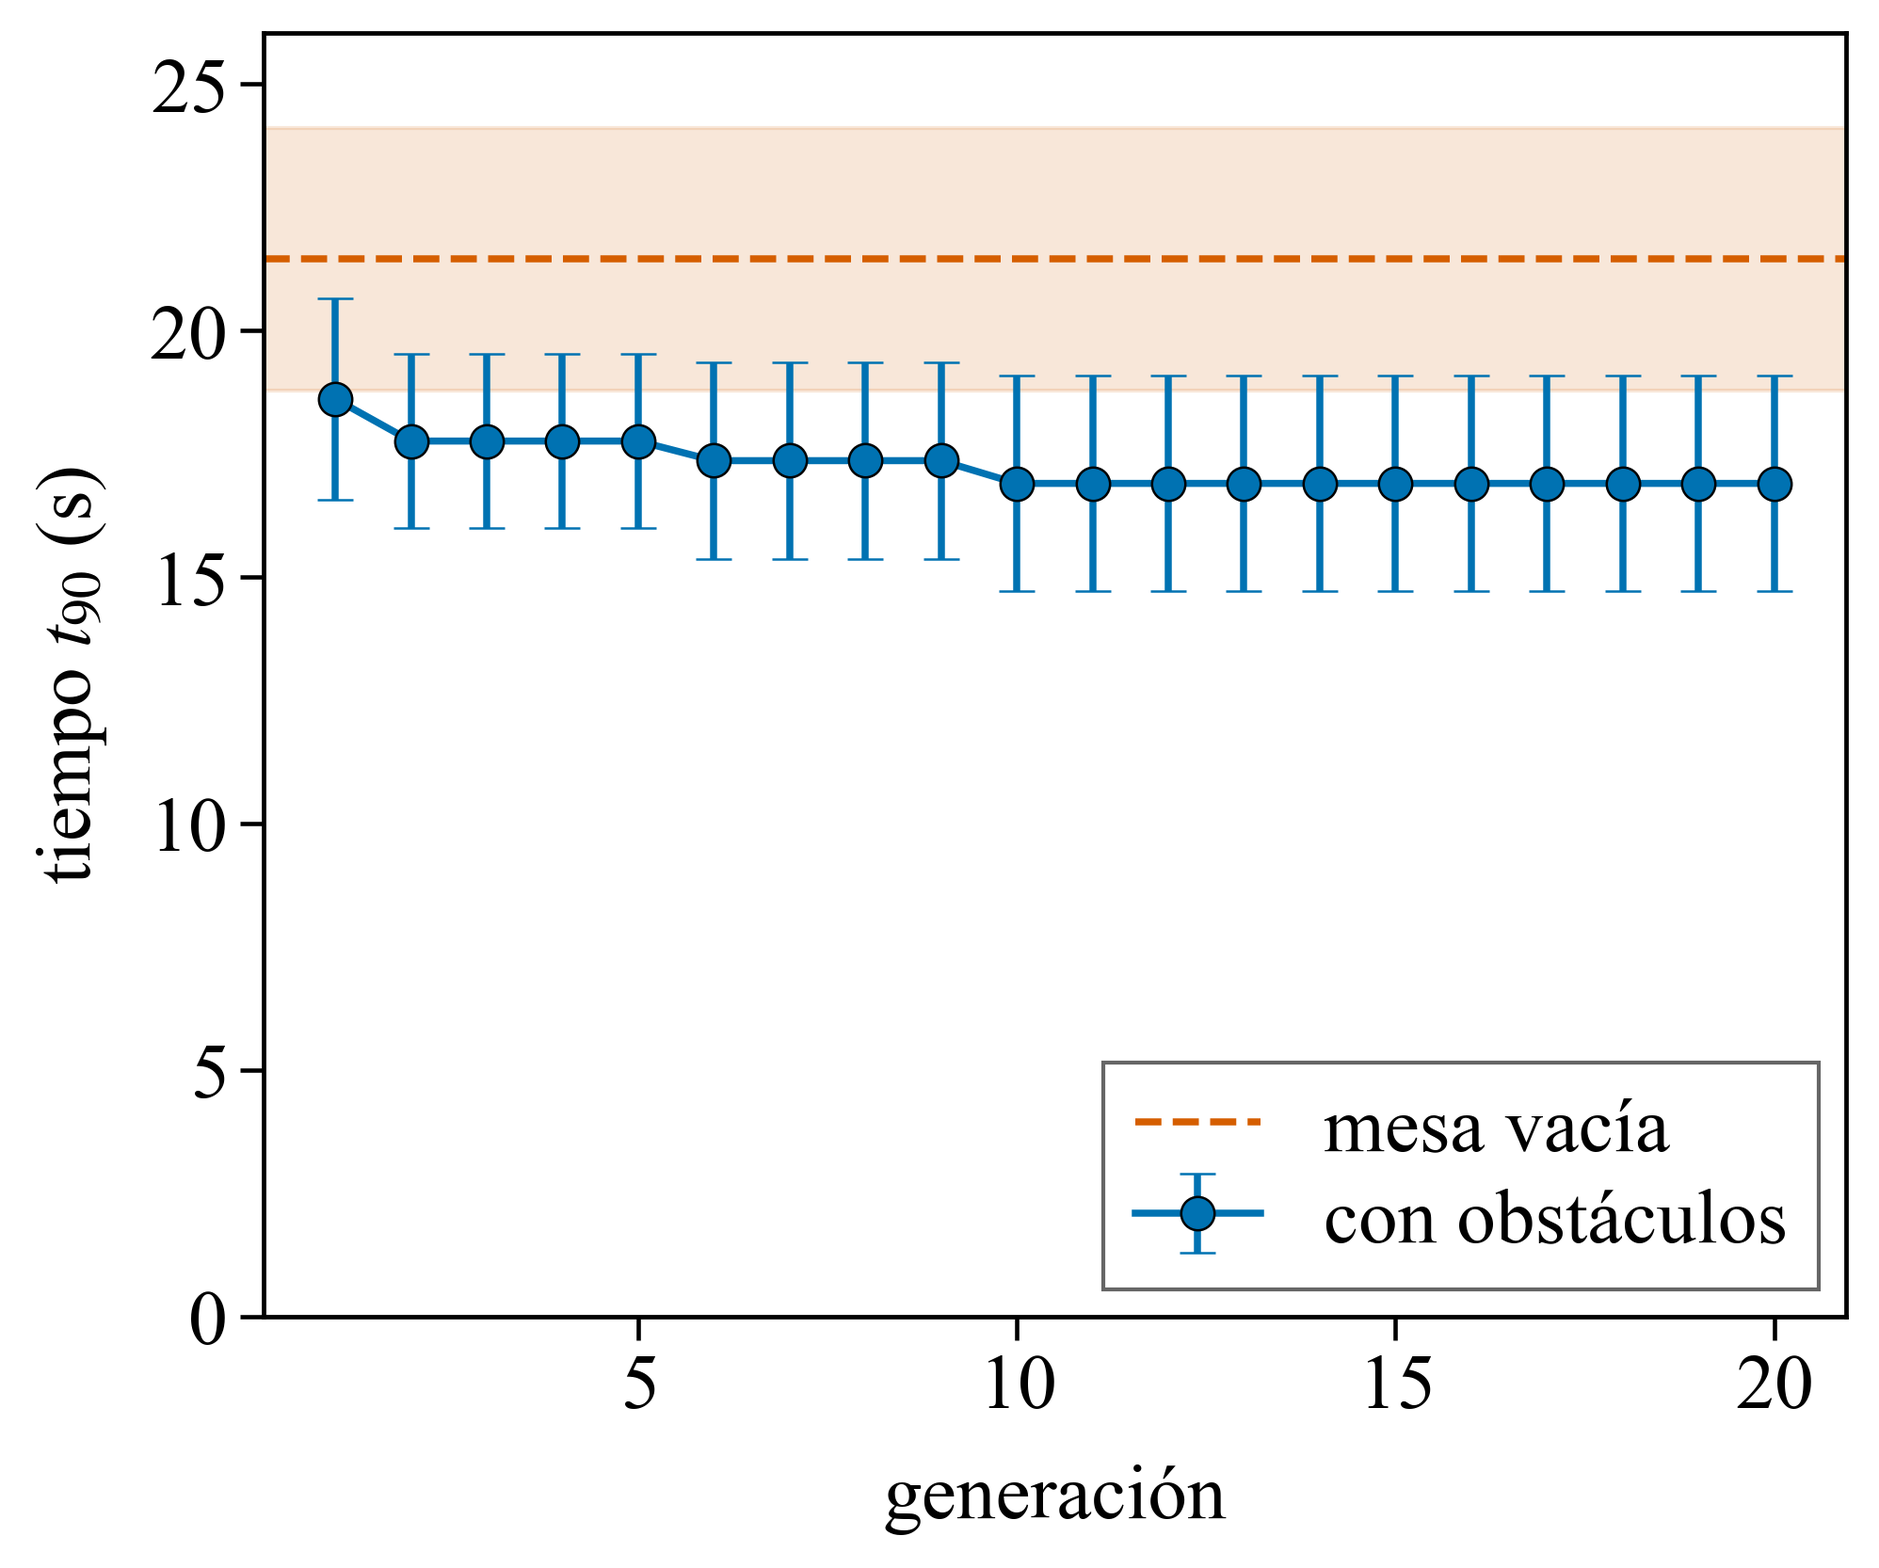
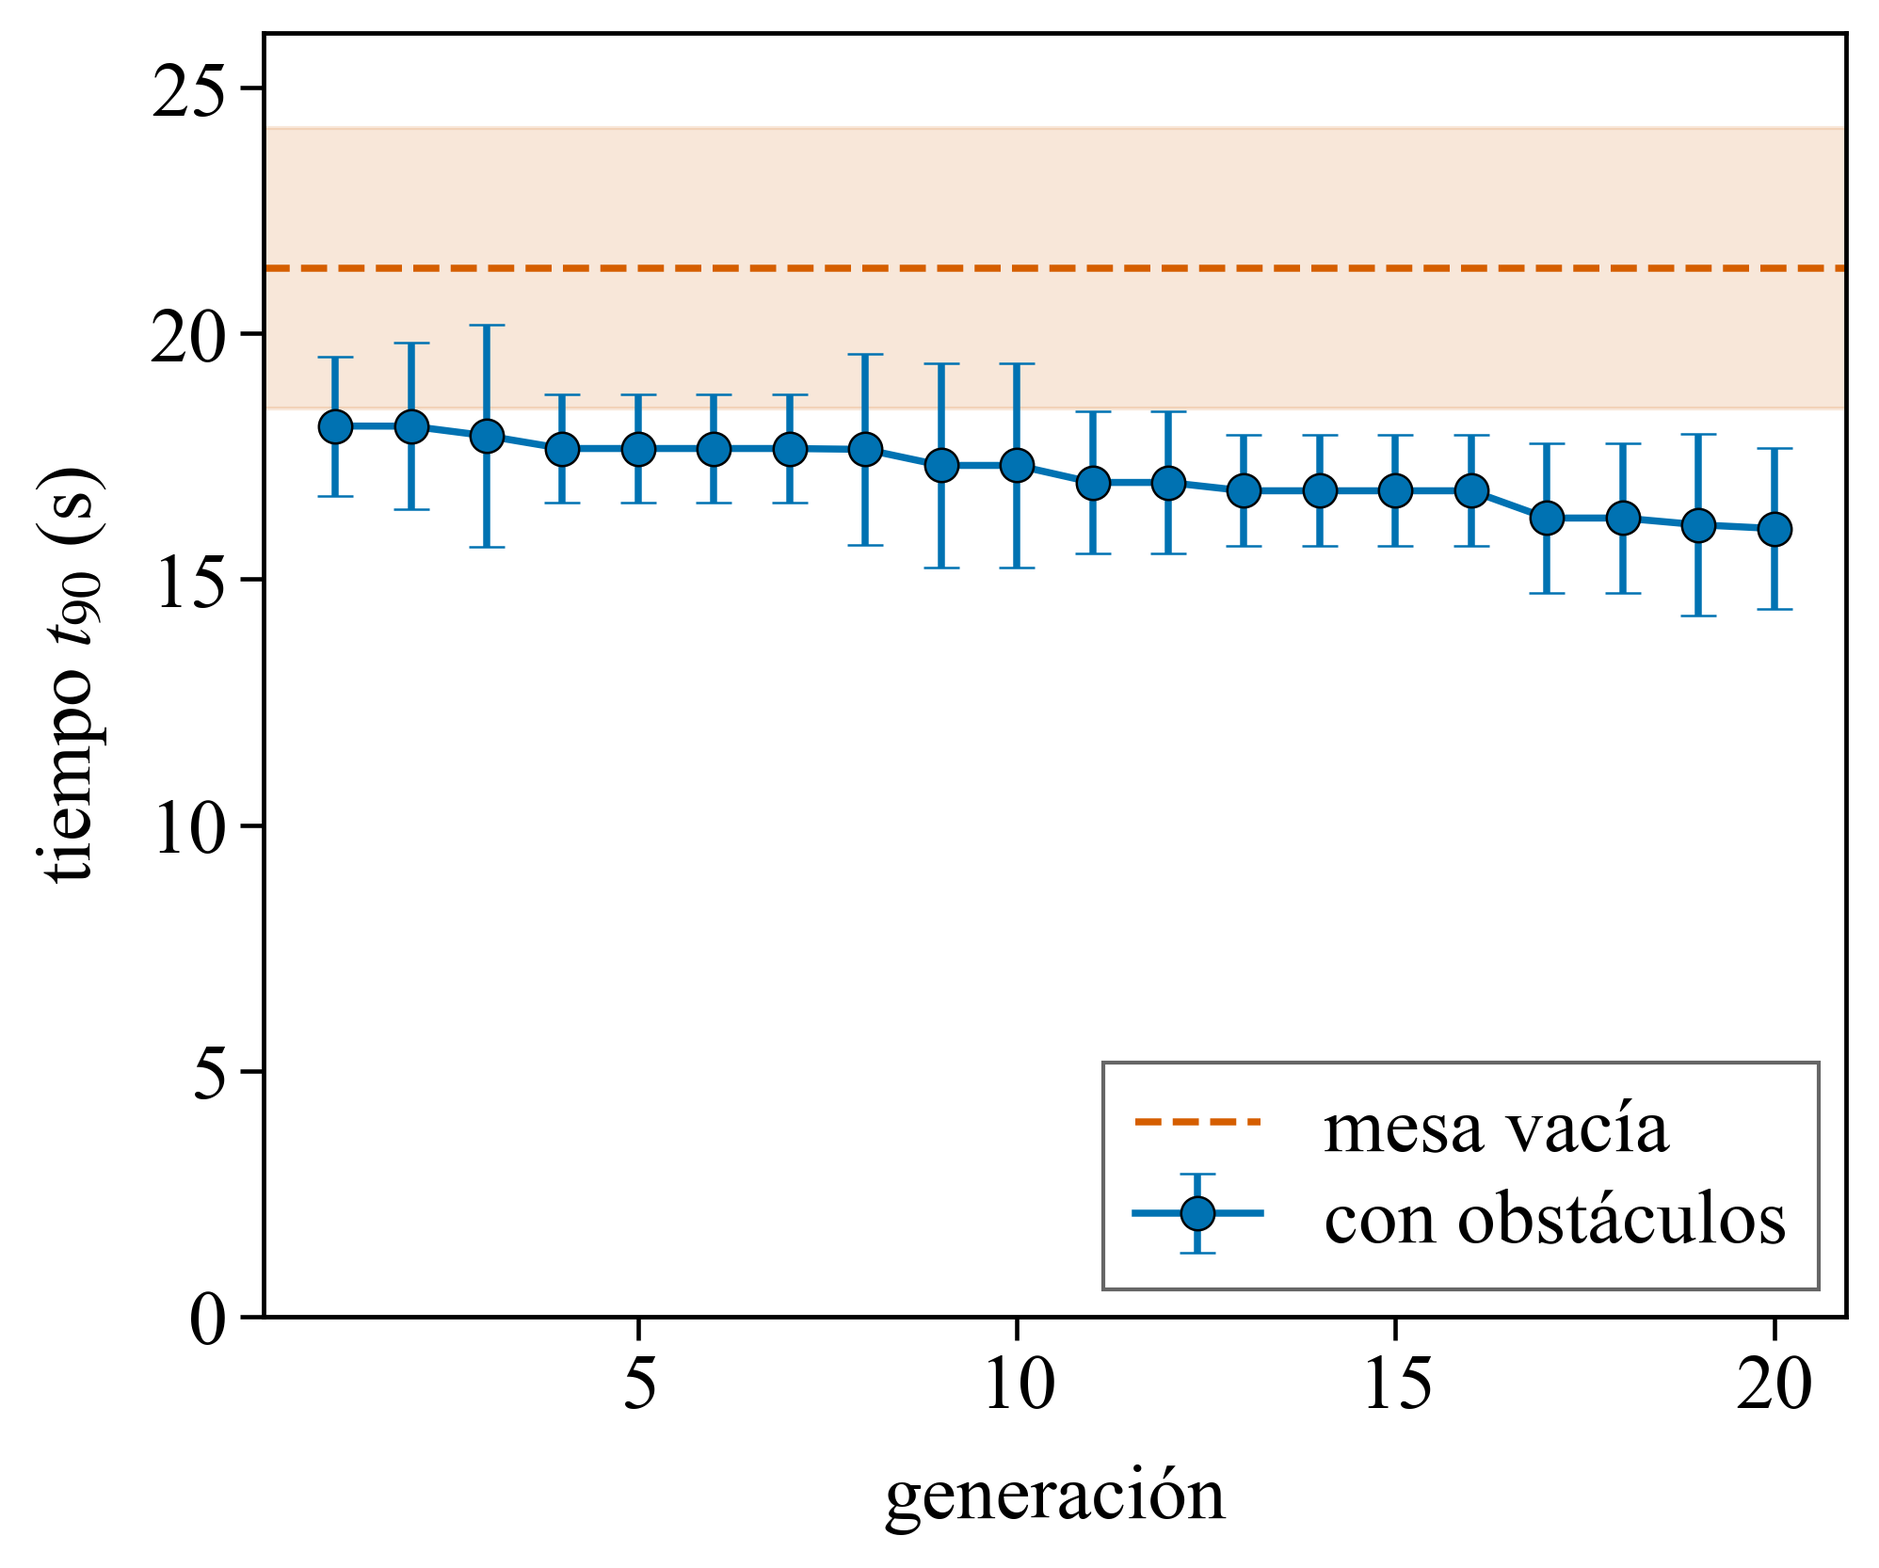
Updated best config

diff --git a/python/ga.py b/python/ga.py
@@ -8,6 +8,8 @@ fijos del enunciado 1.2 / 1.4; el CLI solo mueve el genético.
 
 La población inicial no es uniforme en la mesa: incluye embudos y rieles que
 apuntan a los arcos. Mutar y cruzar siguen siendo libres (sin simetría).
+Si el mejor no mejora durante 5 generaciones, corta y sigue con el pulido
+y la confirmación.
 """
 
 from __future__ import annotations
@@ -44,6 +46,8 @@ RADIUS_SIGMA = 0.02
 CACHE_DECIMALS = 4
 ELITE = 2
 TOURNAMENT_K = 3
+# En el 1.2 las mejoras quedaron a lo sumo 4 generaciones aparte; después la meseta duró 10.
+STALL_GENERATIONS = 5
 PLACE_FAIL = "no se pudo ubicar"
 ENGINE_INVALID = (PLACE_FAIL, "overlaps", "Rk < r", "not inside table")
 MID_Y = 0.5 * W
@@ -672,7 +676,11 @@ def run_search(args: argparse.Namespace) -> None:
     print(f"población inicial: {len(population)} configs", flush=True)
 
     scored: list[tuple[Config, dict]] = []
+    best_fitness: float | None = None
+    stall = 0
+    last_gen = 0
     for gen in range(args.gens):
+        last_gen = gen
         if gen == 0:
             current = population
         else:
@@ -696,12 +704,23 @@ def run_search(args: argparse.Namespace) -> None:
             f"K={len(scored[0][0])}  <t90>={_fmt(scored[0][1]['t90_mean'])}",
             flush=True,
         )
+        if best_fitness is None or best_fit + 1e-12 < best_fitness:
+            best_fitness = best_fit
+            stall = 0
+        else:
+            stall += 1
+            if stall >= STALL_GENERATIONS:
+                print(
+                    f"sin mejora en {STALL_GENERATIONS} generaciones; corto en la gen {gen + 1}",
+                    flush=True,
+                )
+                break
 
     finalists = [config for config, _row in scored[:6]]
     polished, polish_row = polish(
         scored[0][0], exe, search_seeds, args.jobs, cache, rng, args.k_max,
     )
-    _append_history(history, args.gens, polished, polish_row)
+    _append_history(history, last_gen + 1, polished, polish_row)
     candidates = unique_configs([*finalists, polished])
     print(f"confirmando {len(candidates)} candidatas + mesa vacía...", flush=True)
     confirm_rows = evaluate_batch(candidates, exe, confirm_seeds, args.jobs, cache)
@@ -724,6 +743,7 @@ def run_search(args: argparse.Namespace) -> None:
         f"tmax {TMAX}\n"
         f"pop {args.pop}\n"
         f"gens {args.gens}\n"
+        f"gens_ran {last_gen + 1}\n"
         f"reps {args.reps}\n"
         f"jobs {args.jobs}\n"
         f"k_max {args.k_max}\n"

diff --git a/docs/results/1.2/1.2_configuracion.md b/docs/results/1.2/1.2_configuracion.md
@@ -12,14 +12,15 @@ menos 5 realizaciones, y comparar contra la mesa vacía.
 ## Cómo se midió
 
 ```
-python python/ga.py --outdir data/ga/final --pop 32 --gens 20 --reps 12 --jobs 4 --seed 301 --seed-config configs/ga_best.txt --seed-config data/ga/run1/best.txt
-python python/plotters/plot_t90.py --input docs/results/1.2/t90_generacion.txt --output docs/results/1.2/t90_generacion.png --xlabel "generación" --empty 21.4462 2.66045
+python python/ga.py --outdir data/ga/full --pop 32 --gens 20 --reps 12 --jobs 8 --seed 501 --seed-config configs/ga_best.txt --exe build/EventDrivenSim.exe
+python python/run.py --exe build/EventDrivenSim.exe --outdir data/runs/1.2/empty_search --reps 12 --seed 501 --k 0 --tmax 100 --jobs 4 --preview none
+python python/plotters/plot_t90.py --input docs/results/1.2/t90_generacion.txt --output docs/results/1.2/t90_generacion.png --xlabel "generación" --empty 21.3247 2.8559
 ```
 
 - **Parámetros fijos:** N = 100, v0 = 1 m/s, r = 0.0175 m, m = 0.025 kg, L = 1.20 m, W = 0.68 m, d = 0.20 m, tmax = 100 s.
-- **Individuo:** lista de discos (xk, yk, Rk). Población 32, 20 generaciones. La población inicial incluye embudos, rieles, un obstáculo grande sobre el eje longitudinal y las configuraciones de dos corridas anteriores.
-- **Búsqueda:** 12 realizaciones por individuo, semillas 301 a 312, las mismas para todos.
-- **Confirmación:** semillas 401 a 412, que no entraron en la búsqueda. Ese es el ⟨t90⟩ que se reporta.
+- **Individuo:** lista de discos (xk, yk, Rk). Población 32, 20 generaciones. La población inicial incluye embudos, rieles, un obstáculo grande sobre el eje longitudinal y la configuración de la corrida anterior.
+- **Búsqueda:** 12 realizaciones por individuo, semillas 501 a 512, las mismas para todos. Si el mejor no mejora durante 5 generaciones la búsqueda corta; en esta corrida siguió hasta la 20.
+- **Confirmación:** semillas 601 a 612, que no entraron en la búsqueda. Ese es el ⟨t90⟩ que se reporta.
 - **Barras de error:** desvío estándar muestral de las realizaciones, igual que en el 1.1.
 
 ## Datos
@@ -28,43 +29,41 @@ Configuración elegida, `configs/ga_best.txt`. Cada fila es un obstáculo: xk, y
 
 | obstáculo | xk (m) | yk (m) | Rk (m) |
 |---|---|---|---|
-| 1 | 0.5099 | 0.0724 | 0.0266 |
-| 2 | 0.5928 | 0.3862 | 0.2193 |
-| 3 | 0.6529 | 0.1176 | 0.0511 |
+| 1 | 0.5900 | 0.3400 | 0.3400 |
 
-Los tres están enteros en la mesa, no se solapan y tienen Rk ≥ r. En las 12 semillas de confirmación el generador ubicó las 100 partículas.
+El disco está entero en la mesa: el centro queda sobre el eje longitudinal y el radio es la mitad del ancho, así que toca las dos paredes largas. Rk ≥ r. Con un solo obstáculo no hay solapes. En las 12 semillas de confirmación el generador ubicó las 100 partículas.
 
 ⟨t90⟩ sobre esas 12 semillas:
 
 | configuración | ⟨t90⟩ (s) | desvío (s) | llegaron a Fu = 0.9 |
 |---|---|---|---|
-| elegida | 18.28 | 1.74 | 12 / 12 |
-| mesa vacía | 21.11 | 2.45 | 12 / 12 |
+| elegida | 15.61 | 2.47 | 12 / 12 |
+| mesa vacía | 23.76 | 3.22 | 12 / 12 |
 
-Mejor individuo de cada generación de la búsqueda (semillas 301 a 312). La mesa vacía, con esas mismas semillas, da 21.45 ± 2.66 s y también llega a Fu = 0.9 en las 12.
+Mejor individuo de cada generación de la búsqueda (semillas 501 a 512). La mesa vacía, con esas mismas semillas, da 21.32 ± 2.86 s y también llega a Fu = 0.9 en las 12.
 
 | generación | K | ⟨t90⟩ (s) | desvío (s) |
 |---|---|---|---|
-| 1  | 1 | 18.61 | 2.04 |
-| 2  | 2 | 17.76 | 1.77 |
-| 3  | 2 | 17.76 | 1.77 |
-| 4  | 2 | 17.76 | 1.77 |
-| 5  | 2 | 17.76 | 1.77 |
-| 6  | 2 | 17.36 | 2.00 |
-| 7  | 2 | 17.36 | 2.00 |
-| 8  | 2 | 17.36 | 2.00 |
-| 9  | 2 | 17.36 | 2.00 |
-| 10 | 3 | 16.90 | 2.18 |
-| 11 | 3 | 16.90 | 2.18 |
-| 12 | 3 | 16.90 | 2.18 |
-| 13 | 3 | 16.90 | 2.18 |
-| 14 | 3 | 16.90 | 2.18 |
-| 15 | 3 | 16.90 | 2.18 |
-| 16 | 3 | 16.90 | 2.18 |
-| 17 | 3 | 16.90 | 2.18 |
-| 18 | 3 | 16.90 | 2.18 |
-| 19 | 3 | 16.90 | 2.18 |
-| 20 | 3 | 16.90 | 2.18 |
+| 1  | 1 | 18.12 | 1.42 |
+| 2  | 1 | 18.11 | 1.69 |
+| 3  | 2 | 17.92 | 2.26 |
+| 4  | 2 | 17.66 | 1.09 |
+| 5  | 2 | 17.66 | 1.09 |
+| 6  | 2 | 17.66 | 1.09 |
+| 7  | 2 | 17.66 | 1.09 |
+| 8  | 2 | 17.64 | 1.94 |
+| 9  | 1 | 17.32 | 2.08 |
+| 10 | 1 | 17.32 | 2.08 |
+| 11 | 3 | 16.97 | 1.44 |
+| 12 | 3 | 16.97 | 1.44 |
+| 13 | 3 | 16.80 | 1.13 |
+| 14 | 3 | 16.80 | 1.13 |
+| 15 | 3 | 16.80 | 1.13 |
+| 16 | 3 | 16.80 | 1.13 |
+| 17 | 1 | 16.25 | 1.52 |
+| 18 | 1 | 16.25 | 1.52 |
+| 19 | 1 | 16.11 | 1.85 |
+| 20 | 1 | 16.03 | 1.63 |
 
 ## Figuras
 
@@ -72,12 +71,12 @@ Mejor individuo de cada generación de la búsqueda (semillas 301 a 312). La mes
 
 ![⟨t90⟩ de la búsqueda](t90_generacion.png)
 
-- El mejor ⟨t90⟩ baja de 18.61 s en la generación 1 a 16.90 s en la generación 10, y no cambia hasta la 20.
-- La línea naranja es la mesa vacía en las semillas de la búsqueda (21.45 s). La banda y las barras son el desvío de las 12 realizaciones, no el error de la media. Por eso se solapan aunque la media quede 4.5 s más abajo.
-- El 16.90 s no es el resultado que se informa: usa las semillas con las que se eligió. En las semillas de confirmación el ⟨t90⟩ de esa configuración es 18.28 ± 1.74 s, y el de la mesa vacía es 21.11 ± 2.45 s.
+- El mejor ⟨t90⟩ baja de 18.12 s en la generación 1 a 16.03 s en la generación 20.
+- La línea naranja es la mesa vacía en las semillas de la búsqueda (21.32 s). La banda y las barras son el desvío de las 12 realizaciones, no el error de la media.
+- El 16.03 s no es el resultado que se informa: usa las semillas con las que se eligió. En las semillas de confirmación el ⟨t90⟩ de esa configuración es 15.61 ± 2.47 s, y el de la mesa vacía es 23.76 ± 3.22 s.
 
 ## Notas y conclusiones
 
-- La configuración elegida tiene ⟨t90⟩ = 18.28 ± 1.74 s, frente a 21.11 ± 2.45 s de la mesa vacía, en 12 realizaciones que no participaron de la búsqueda. Las 12 llegan a Fu = 0.9.
-- En la búsqueda el mejor valor baja hasta la generación 10 y después se estanca. El genético no sigue encontrando configuraciones mejores dentro de esta corrida.
-- Dos configuraciones de corridas anteriores, evaluadas en las mismas semillas de confirmación, dan 18.32 ± 2.81 s y 18.87 ± 2.67 s. Quedan dentro del desvío de la elegida.
+- La configuración elegida tiene ⟨t90⟩ = 15.61 ± 2.47 s, frente a 23.76 ± 3.22 s de la mesa vacía, en 12 realizaciones que no participaron de la búsqueda. Las 12 llegan a Fu = 0.9.
+- En la búsqueda el mejor valor sigue bajando hasta la generación 20. El disco grande sobre el eje longitudinal le gana a los layouts de dos y tres discos que fueron mejores en generaciones intermedias.
+- Las barras de la confirmación no se solapan: 15.61 + 2.47 = 18.08 s y 23.76 − 3.22 = 20.54 s.

diff --git a/docs/results/1.3/1.3_difusion.md b/docs/results/1.3/1.3_difusion.md
@@ -14,11 +14,11 @@ si D y ⟨t90⟩ se correlacionan.
 
 ```
 python python/run.py --exe build/EventDrivenSim.exe --outdir data/runs/1.3/msd/vacia --reps 1 --seed 401 --k 200 --tmax 100 --jobs 1 --preview none
-python python/run.py --exe build/EventDrivenSim.exe --outdir data/runs/1.3/msd/elegida --obstacles configs/ga_best.txt --reps 1 --seed 401 --k 200 --tmax 100 --jobs 1 --preview none
+python python/run.py --exe build/EventDrivenSim.exe --outdir data/runs/1.3/msd/elegida_full --obstacles configs/ga_best.txt --reps 1 --seed 401 --k 200 --tmax 100 --jobs 1 --preview none
 python python/run.py --exe build/EventDrivenSim.exe --outdir data/runs/1.3/msd/disco --obstacles configs/disco_grande.txt --reps 1 --seed 401 --k 200 --tmax 100 --jobs 1 --preview none
 python python/run.py --exe build/EventDrivenSim.exe --outdir data/runs/1.3/msd/embudo --obstacles configs/embudo.txt --reps 1 --seed 401 --k 200 --tmax 100 --jobs 1 --preview none
-python python/run.py --exe build/EventDrivenSim.exe --outdir data/runs/1.3/t90/disco --obstacles configs/disco_grande.txt --reps 12 --seed 401 --k 0 --tmax 100 --jobs 4 --preview none
-python python/run.py --exe build/EventDrivenSim.exe --outdir data/runs/1.3/t90/embudo --obstacles configs/embudo.txt --reps 12 --seed 401 --k 0 --tmax 100 --jobs 4 --preview none
+python python/run.py --exe build/EventDrivenSim.exe --outdir data/runs/1.3/t90/disco_601 --obstacles configs/disco_grande.txt --reps 12 --seed 601 --k 0 --tmax 100 --jobs 4 --preview none
+python python/run.py --exe build/EventDrivenSim.exe --outdir data/runs/1.3/t90/embudo_601 --obstacles configs/embudo.txt --reps 12 --seed 601 --k 0 --tmax 100 --jobs 4 --preview none
 python python/plotters/plot_layout.py --obstacles configs/disco_grande.txt --output docs/results/1.3/disco.png
 python python/plotters/plot_layout.py --obstacles configs/embudo.txt --output docs/results/1.3/embudo.png
 python python/plotters/plot_msd.py --input docs/results/1.3/msd_vacia.txt --output docs/results/1.3/msd_vacia.png --error-output docs/results/1.3/msd_error.png --t-min 0.5 --t-max 1.5
@@ -28,18 +28,18 @@ python python/plotters/plot_d_vs_t90.py --input docs/results/1.3/d_vs_t90.txt --
 - **Parámetros fijos:** los del 1.2. N = 100, v0 = 1 m/s, tmax = 100 s.
 - **DCM:** una realización, semilla 401, la misma para las cuatro configuraciones. El promedio es sobre las 100 partículas, respecto de sus posiciones iniciales. El motor guarda el estado inicial, un cuadro cada 200 colisiones y cada gol.
 - **Ajuste:** entre 0.5 s y 1.5 s. Antes de 0.5 s el desplazamiento todavía sale del régimen balístico (el tiempo entre colisiones es del orden de 0.1 s). Después de 2 s la mesa, que se cruza en alrededor de 1 s, dobla la curva y el DCM deja de crecer como 4 D t. El modelo es ⟨Δr²⟩ = b + 4 D t. Para cada D, b es el intercepto que minimiza E(D) = Σ [DCMᵢ − b − 4 D tᵢ]². D informado es esa pendiente dividida por 4.
-- **⟨t90⟩:** semillas 401 a 412. Mesa vacía y configuración elegida: los valores de confirmación del 1.2. Disco grande y embudo: medidos en esas mismas semillas. Las barras son el desvío estándar muestral.
+- **⟨t90⟩:** semillas 601 a 612, las de confirmación del 1.2. Mesa vacía y configuración elegida: esos valores. Disco grande y embudo: medidos en esas mismas semillas. Las barras son el desvío estándar muestral.
 
 ## Datos
 
 | configuración | D (m²/s) | ⟨t90⟩ (s) | desvío (s) | llegaron a Fu = 0.9 |
 |---|---|---|---|---|
-| elegida | 0.0111 | 18.28 | 1.74 | 12 / 12 |
-| disco grande | 0.0122 | 19.77 | 3.65 | 12 / 12 |
-| embudo | 0.0188 | 20.98 | 2.21 | 12 / 12 |
-| mesa vacía | 0.0169 | 21.11 | 2.45 | 12 / 12 |
+| elegida | 0.00465 | 15.61 | 2.47 | 12 / 12 |
+| disco grande | 0.0122 | 19.72 | 3.19 | 12 / 12 |
+| embudo | 0.0188 | 21.70 | 3.04 | 12 / 12 |
+| mesa vacía | 0.0169 | 23.76 | 3.22 | 12 / 12 |
 
-D es de una sola realización, así que no tiene desvío. El disco grande es un obstáculo en (0.60 m, 0.34 m) con R = 0.22 m (`configs/disco_grande.txt`). El embudo son dos discos de R = 0.075 m en x = 0.45 m, y = 0.145 m y y = 0.535 m (`configs/embudo.txt`). Los dos salen de los arreglos con los que arrancó la búsqueda del 1.2. La elegida es `configs/ga_best.txt`.
+D es de una sola realización, así que no tiene desvío. La elegida es el disco de R = 0.34 m centrado en (0.59 m, 0.34 m), `configs/ga_best.txt`. El disco grande es un obstáculo en (0.60 m, 0.34 m) con R = 0.22 m (`configs/disco_grande.txt`). El embudo son dos discos de R = 0.075 m en x = 0.45 m, y = 0.145 m y y = 0.535 m (`configs/embudo.txt`).
 
 ## Figuras
 
@@ -51,6 +51,7 @@ D es de una sola realización, así que no tiene desvío. El disco grande es un 
 
 - El disco grande tapa la franja de los arcos y deja un pasillo contra cada pared larga.
 - El embudo deja una abertura de 0.24 m, centrada a la altura de los arcos.
+- La elegida es el mismo tipo de disco central, con radio 0.34 m: ocupa todo el ancho de la mesa.
 
 ### DCM de la mesa vacía y ajuste
 
@@ -69,11 +70,11 @@ D es de una sola realización, así que no tiene desvío. El disco grande es un 
 
 ![D frente a t90](d_vs_t90.png)
 
-- La elegida tiene el menor D (0.0111 m²/s) y el menor ⟨t90⟩ (18.28 s). El disco queda en el medio en las dos (0.0122 m²/s y 19.77 s).
-- El embudo tiene más difusión que la mesa vacía (0.0188 contra 0.0169 m²/s) y un ⟨t90⟩ al lado (20.98 s contra 21.11 s).
-- Las barras se solapan, también entre la elegida y la mesa vacía: 2.83 s de diferencia de medias, con desvíos de 1.74 s y 2.45 s.
+- La elegida tiene el menor D (0.00465 m²/s) y el menor ⟨t90⟩ (15.61 s). El disco grande queda en el medio en las dos (0.0122 m²/s y 19.72 s).
+- El embudo tiene más difusión que la mesa vacía (0.0188 contra 0.0169 m²/s) y un ⟨t90⟩ menor (21.70 s contra 23.76 s).
+- Entre la elegida y la mesa vacía las barras no se solapan: 8.15 s de diferencia de medias, con desvíos de 2.47 s y 3.22 s. El disco y el embudo sí se solapan con la mesa vacía.
 
 ## Notas y conclusiones
 
-- D es el de la ventana 0.5–1.5 s, semilla 401. ⟨t90⟩ es el de las semillas 401 a 412. Las 12 realizaciones de cada configuración llegan a Fu = 0.9.
-- La elegida reúne el menor D y el menor ⟨t90⟩, y el disco queda en el medio. El embudo no: tiene más difusión que la mesa vacía y su ⟨t90⟩ cae dentro del desvío de esa mesa.
+- D es el de la ventana 0.5–1.5 s, semilla 401. ⟨t90⟩ es el de las semillas 601 a 612. Las 12 realizaciones de cada configuración llegan a Fu = 0.9.
+- La elegida reúne el menor D y el menor ⟨t90⟩, y el disco grande queda en el medio. El embudo no sigue esa orden: difunde más que la mesa vacía y aun así llega un poco antes. El D chico de la elegida sale de que el disco tapa el ancho entero y el desplazamiento en y se satura enseguida.
